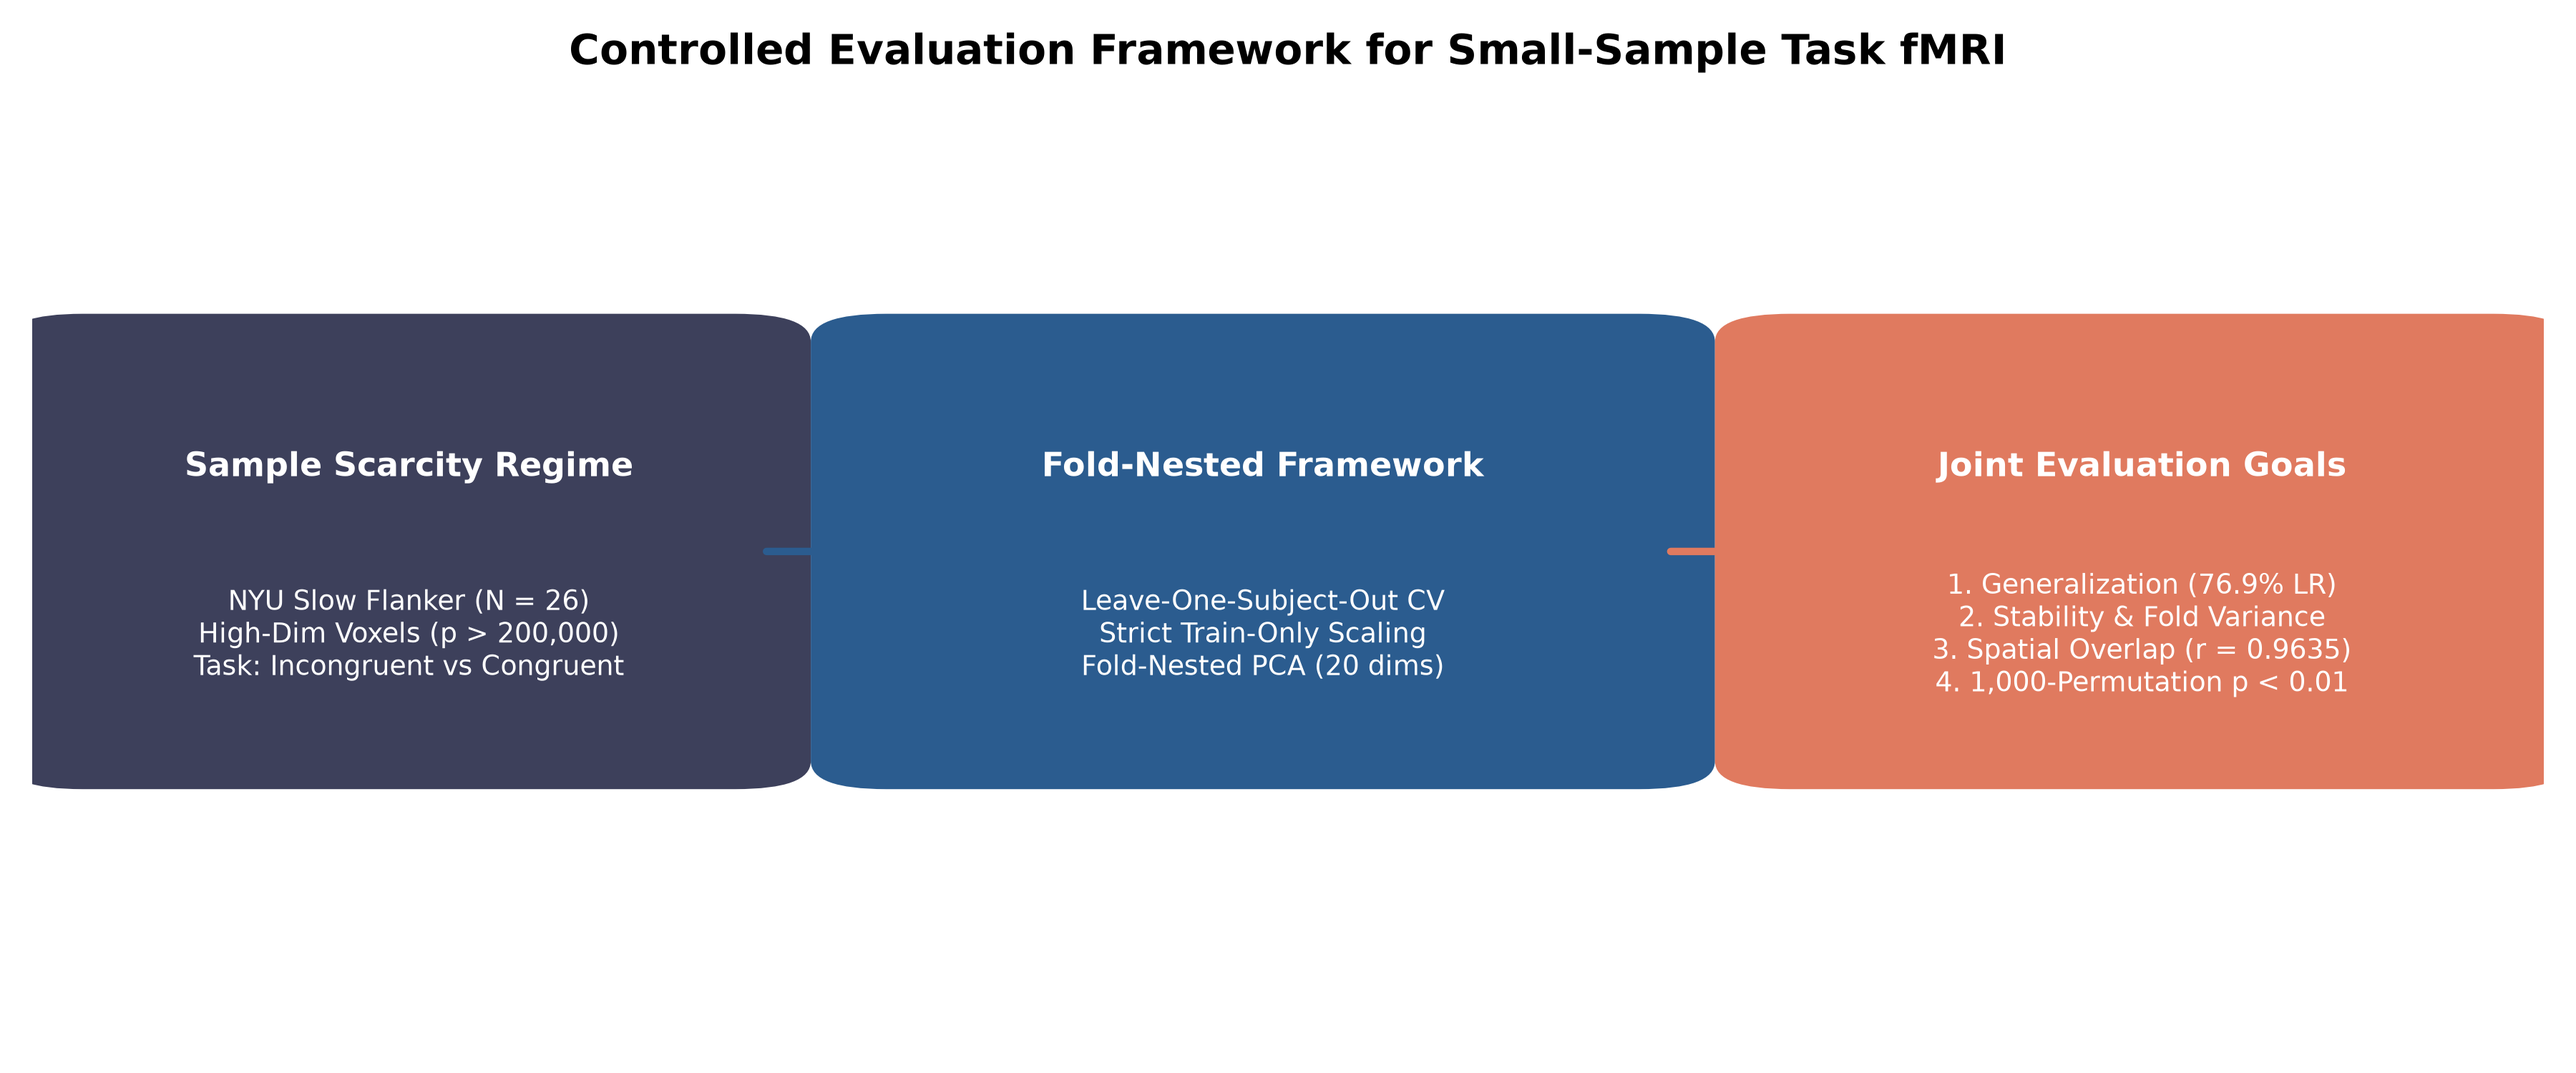
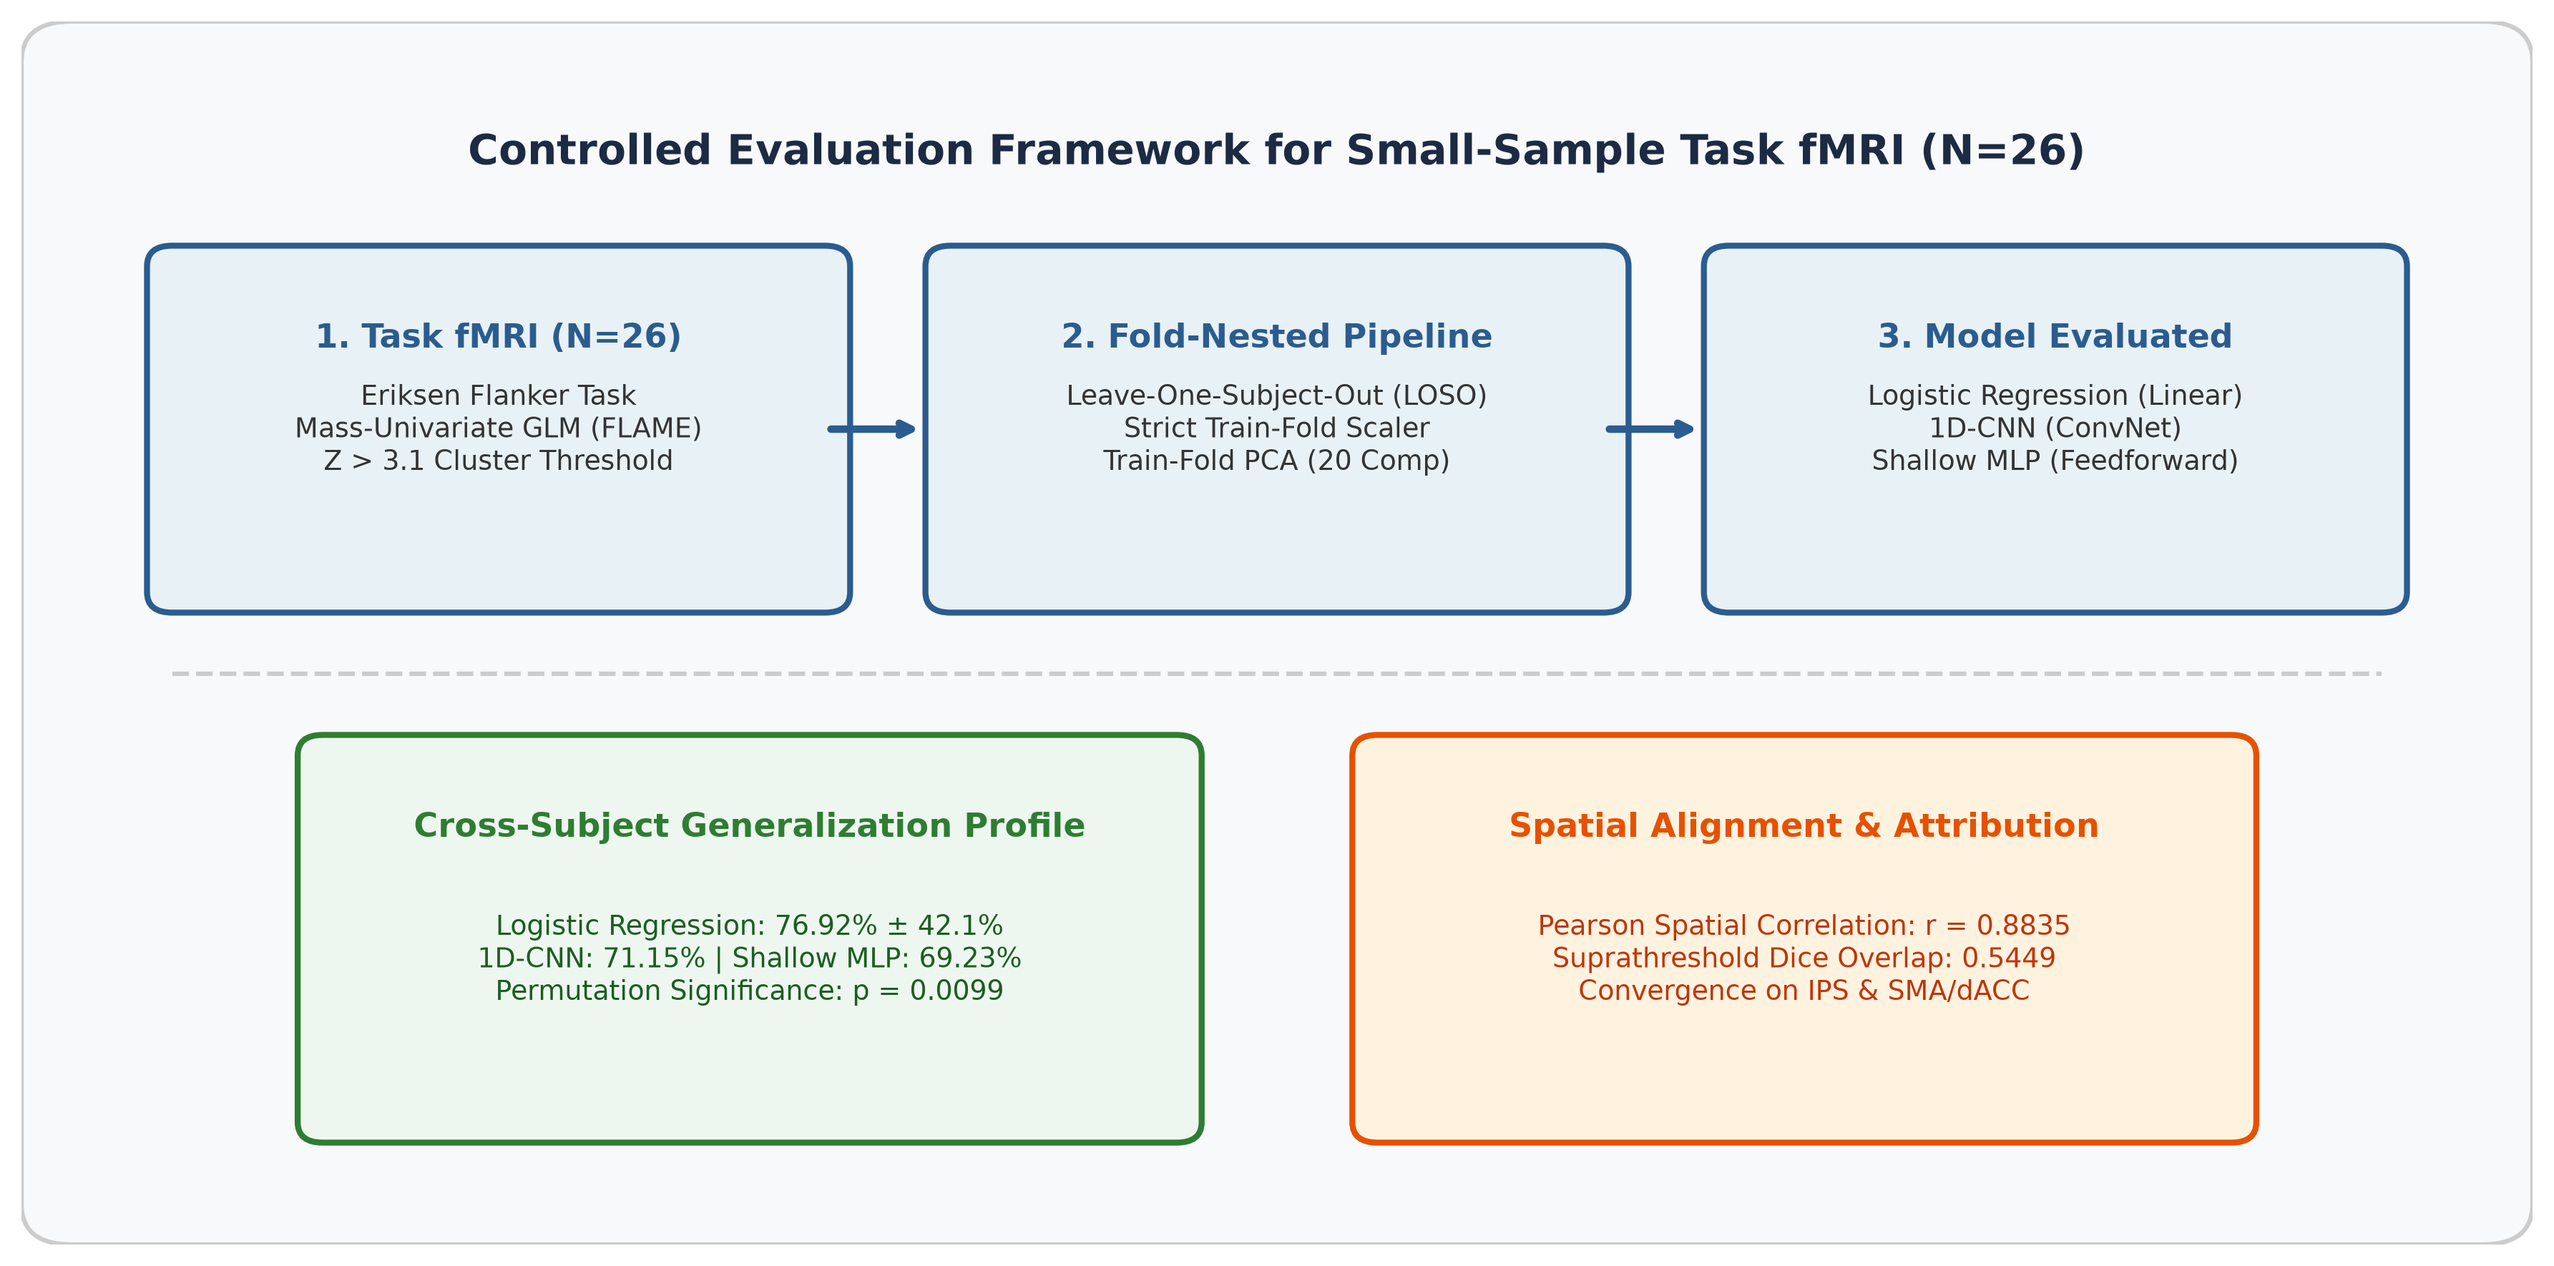
Update Graphical Abstract diagram with r = 0.8835 and add foundation models perspective to Future Work

diff --git a/manuscript.md b/manuscript.md
@@ -214,7 +214,7 @@ Rather than advocating a particular algorithm, this work provides a reproducible
 
 ## 🔮 Future Work
 
-Future work should evaluate whether the present findings generalize across multiple cognitive paradigms, larger multi-site cohorts, and pretrained representation-learning models (Van Essen et al., 2013; Casey et al., 2018). Extending the framework to foundation models and self-supervised neuroimaging representations will help determine whether the observed stability advantages of regularized linear models persist as data availability and model capacity increase (Thomas et al., 2019; Zhou et al., 2023).
+Future work should evaluate whether the present findings generalize across multiple cognitive paradigms, larger multi-site cohorts, and pretrained representation-learning models (Van Essen et al., 2013; Casey et al., 2018). In particular, future work should determine whether these findings extend to modern pretrained neuroimaging foundation models, where representation learning occurs prior to downstream task-specific fine-tuning (Thomas et al., 2019; Zhou et al., 2023). Extending the framework to foundation models and self-supervised neuroimaging representations will help determine whether the observed stability advantages of regularized linear models persist as data availability and model capacity increase.
 
 ---
 
